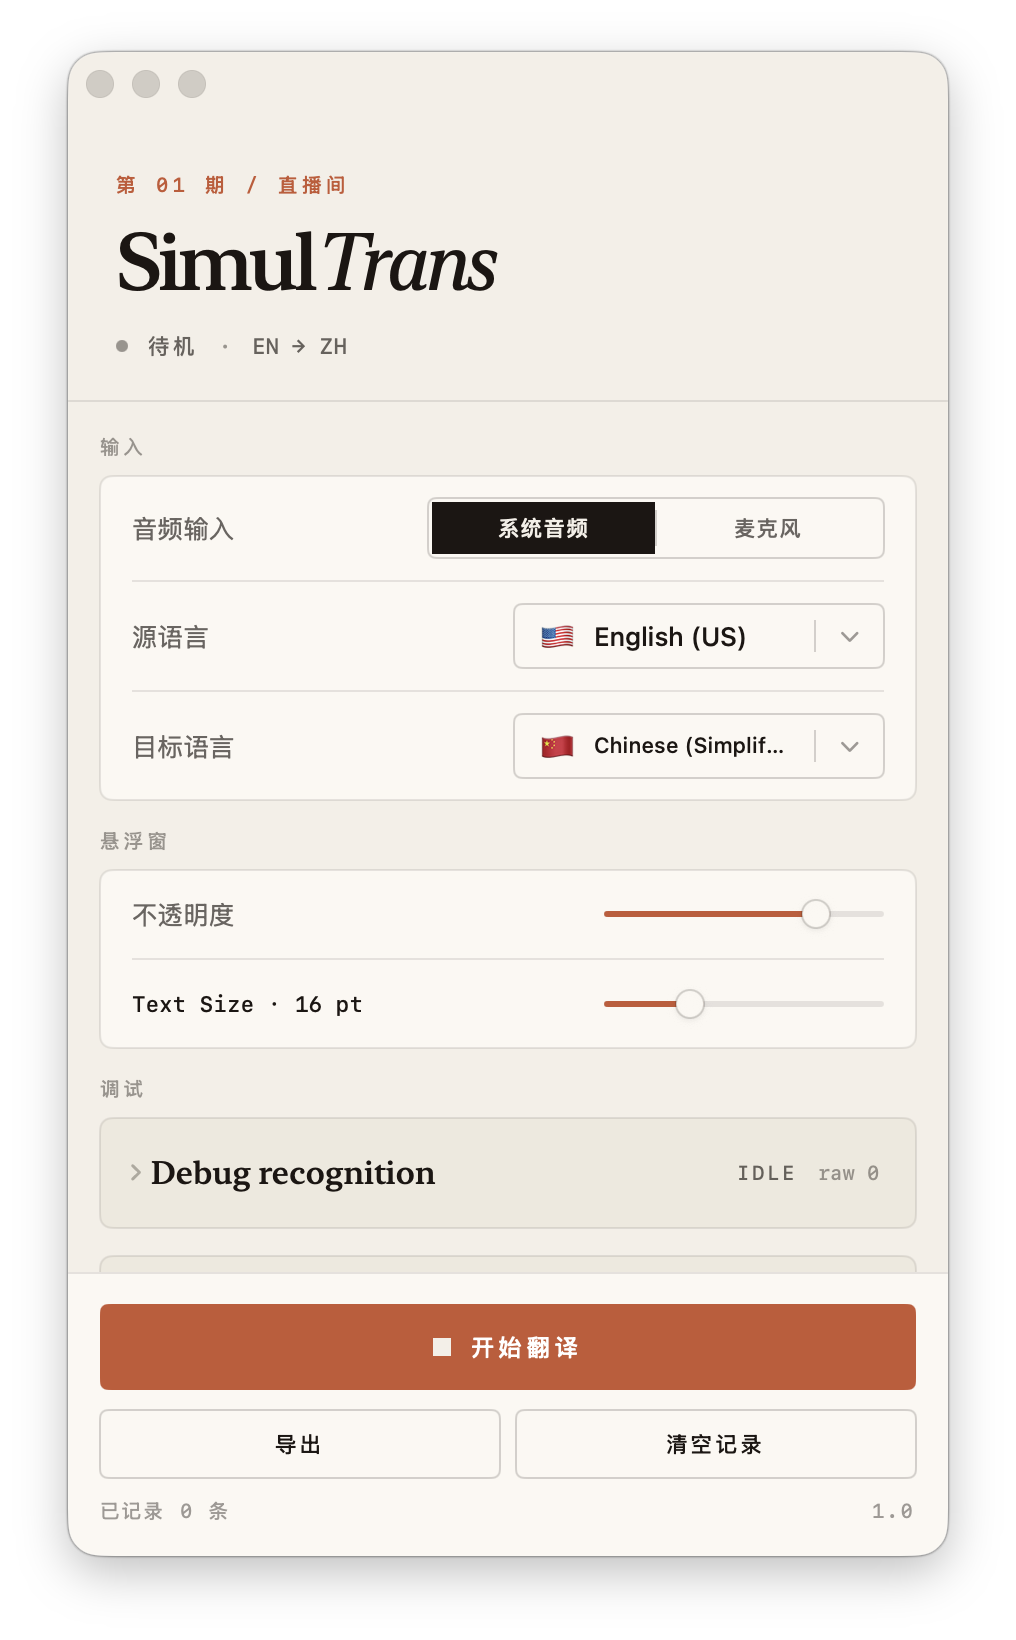
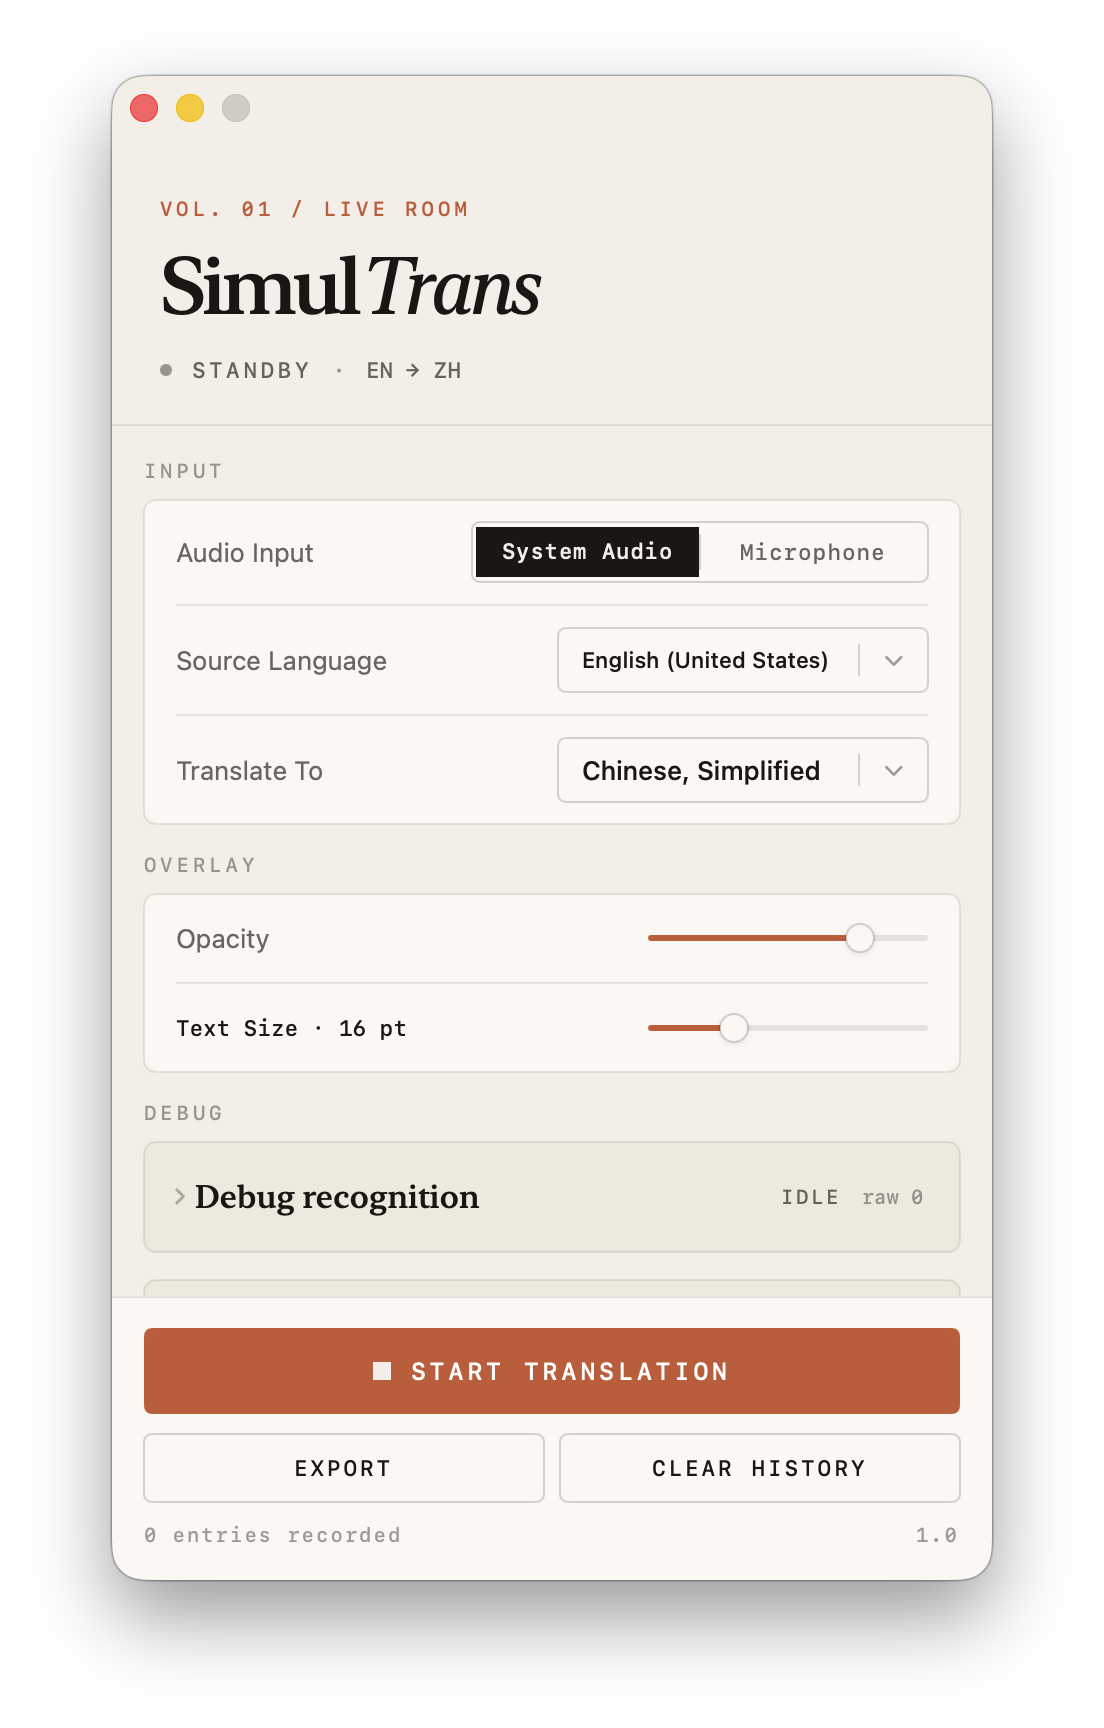
Refresh README screenshots in English

diff --git a/README.md b/README.md
@@ -45,7 +45,7 @@ This round of work focused on making the app feel more like a polished desktop p
 
 ## Screenshot Tour
 
-The control and settings windows follow the host macOS system language. The floating overlay uses the current target language for its own chrome, so the screenshots below may show different UI languages depending on the route being demonstrated.
+The screenshots below are captured using the English app UI so the README stays visually consistent across the walkthrough.
 
 ### First-Run Permission Onboarding
 
